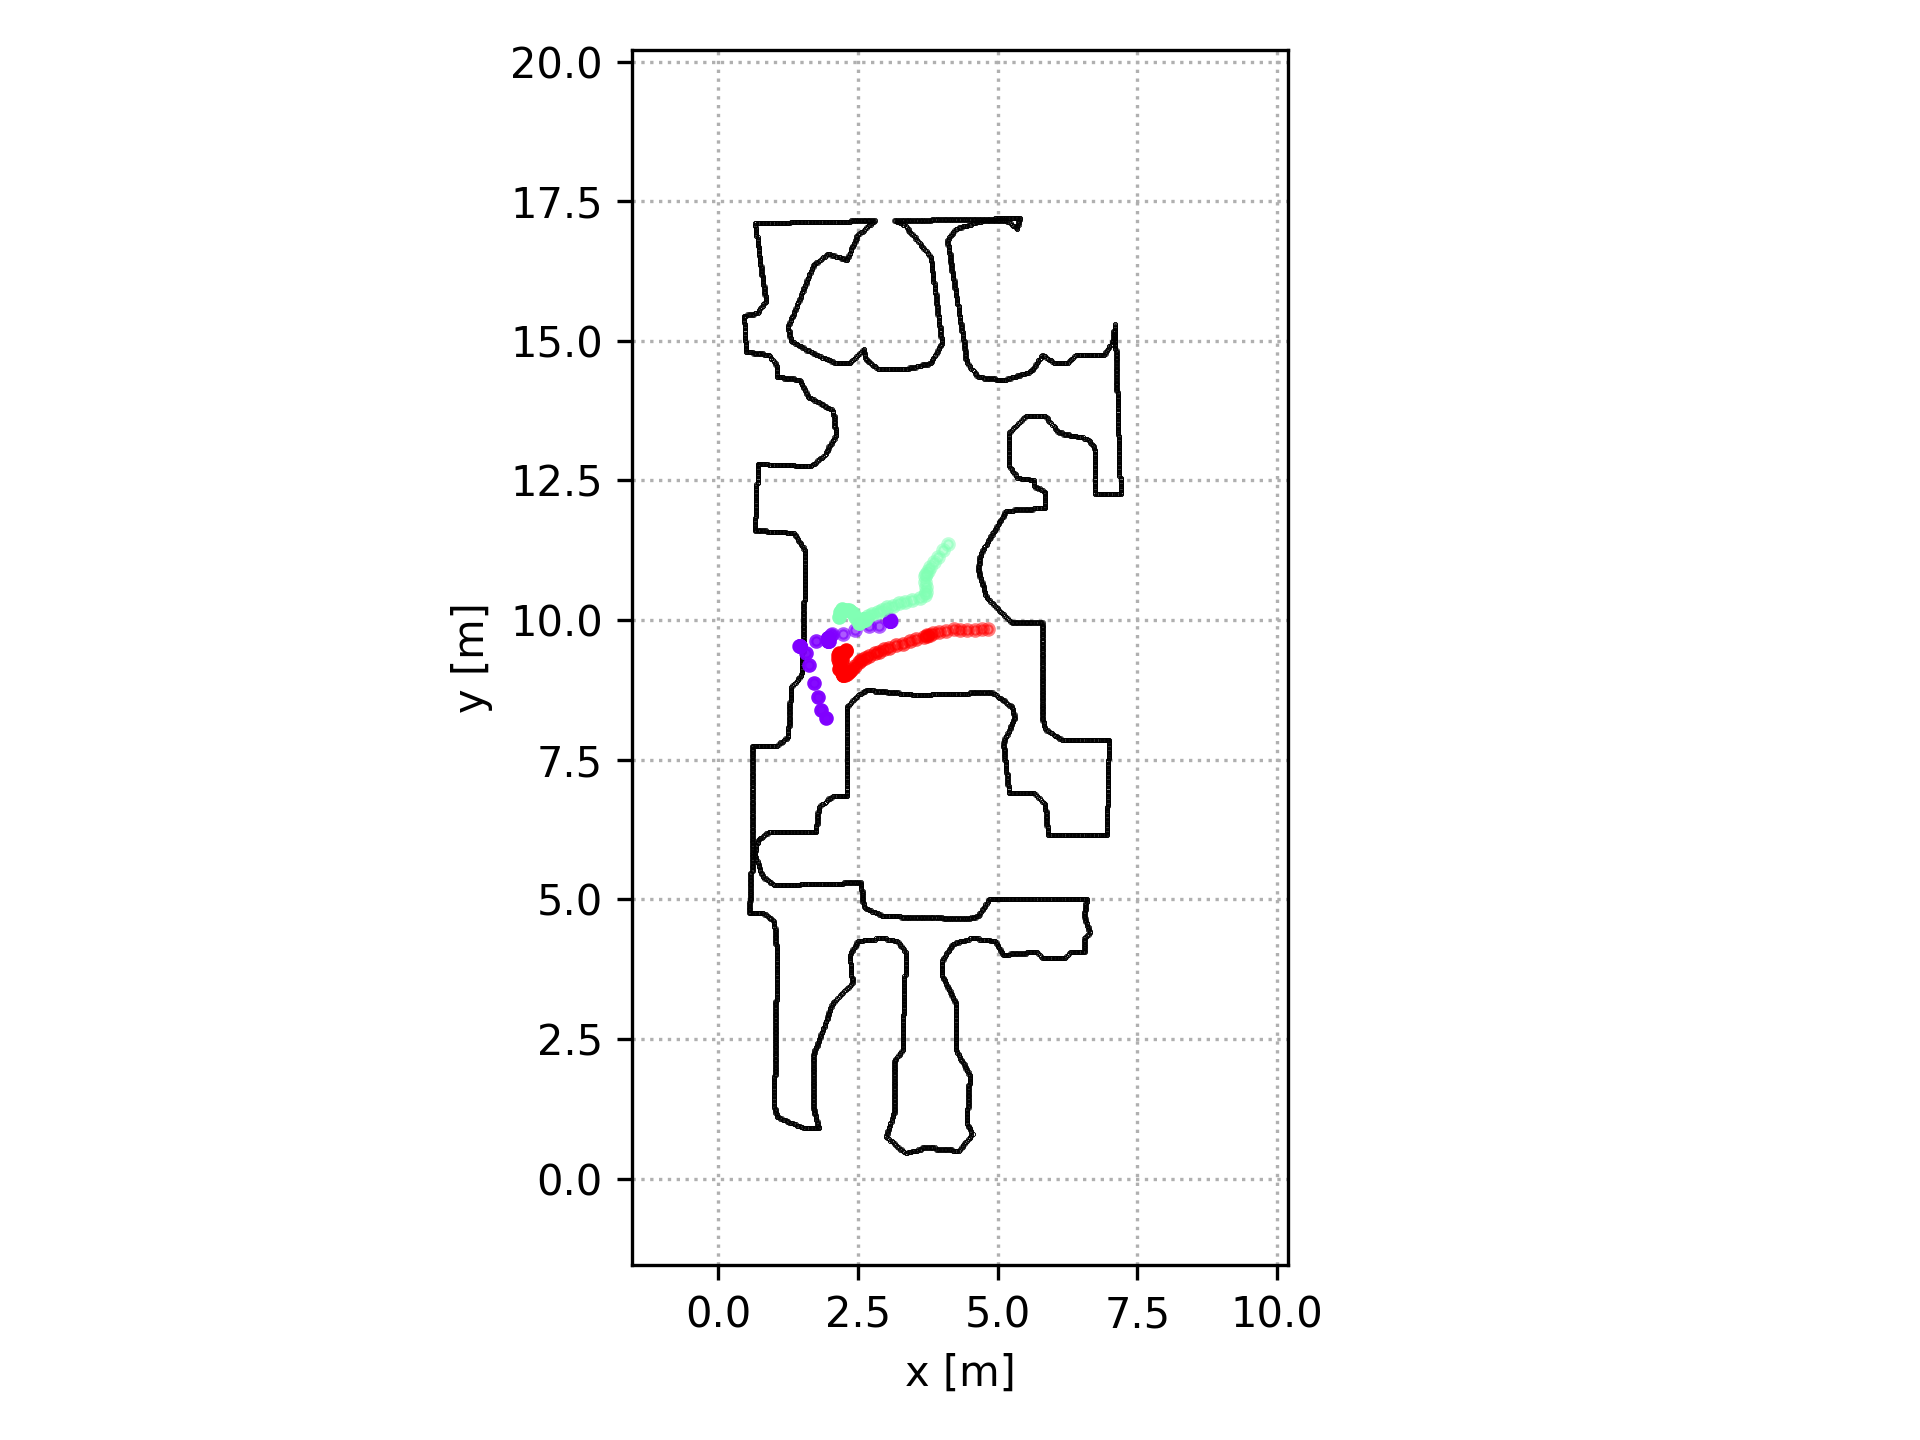
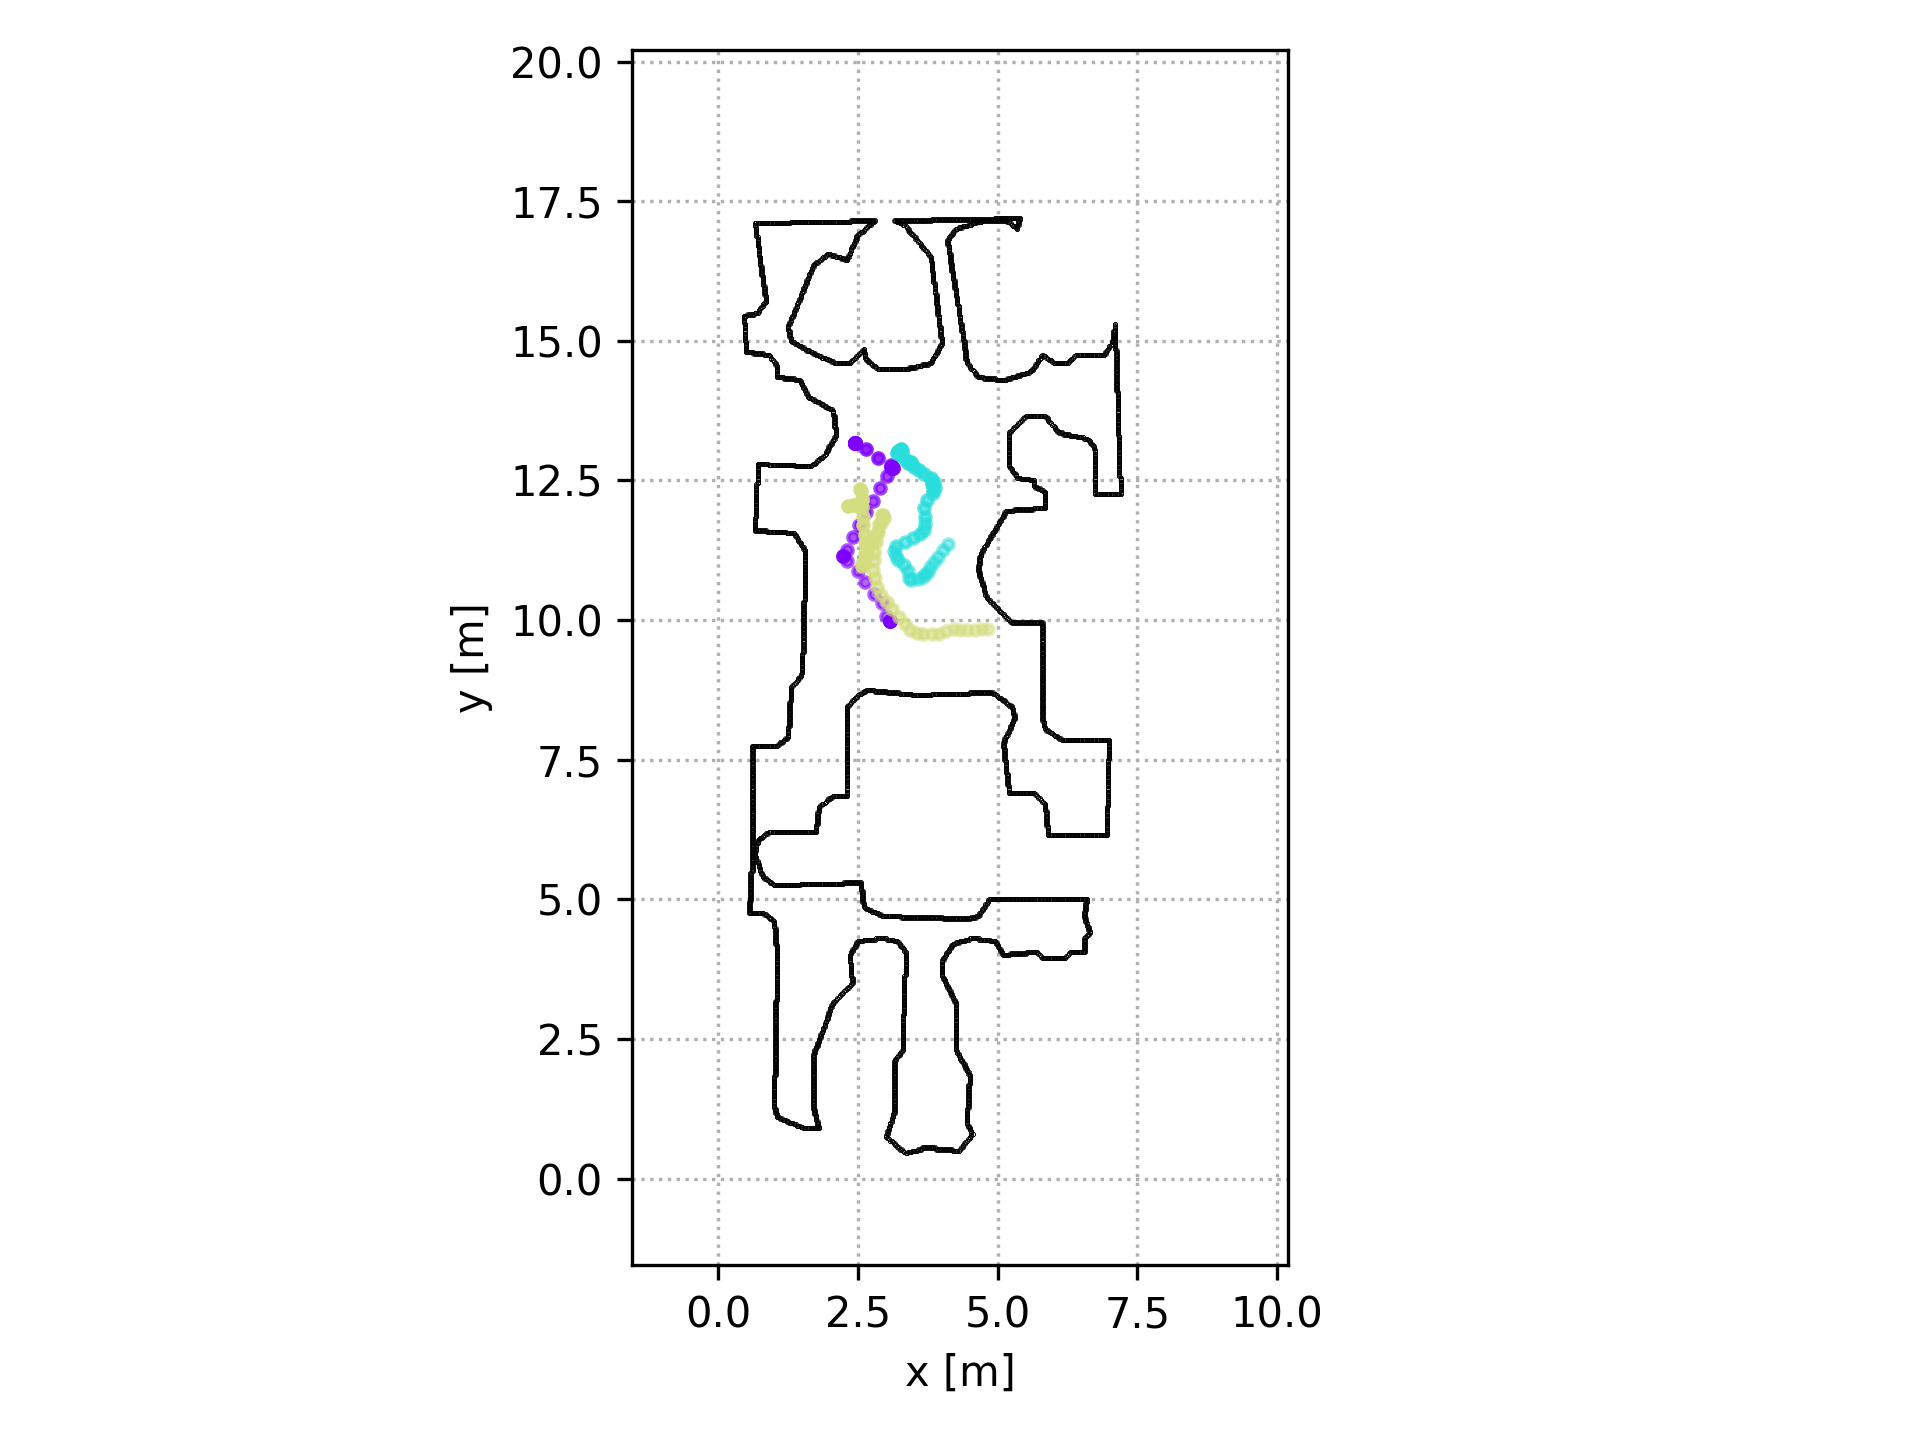
Extra human faces the ground smh

Changed region(s): [[0.4062, 0.2812, 0.5, 0.5]]

diff --git a/scripts/all_humans.py b/scripts/all_humans.py
@@ -54,7 +54,7 @@ AGENT_GOAL_POS_2d = [800,500]
 AGENT_START_POS_2d = [800,100]
 FOLLOWER_OFFSET = [1.5,-1.0,0.0]
 AGENTS_SPEED = 0.5
-USE_RVO = False
+USE_RVO = True
 MPP = 0.001
 def convert_points_to_topdown(pathfinder, points, meters_per_pixel = 0.025):
     points_topdown = []
@@ -332,9 +332,10 @@ class sim_env(threading.Thread):
         robot_pos_in_2d = to_grid(self.env._sim.pathfinder, self.env._sim.robot.base_pos, self.grid_dimensions)
         print(robot_pos_in_2d)
         ### Add human objects and groups here! 
-
+        ### N has the total number of extra humans, besides the robot and the two followers
         self.N = 1
-        self.groups = [[0,1,2]]
+
+        self.groups = [[0,1,2], [1]]
 
 
         ##### Initiating objects for other humans #####
@@ -346,16 +347,14 @@ class sim_env(threading.Thread):
         humans_initial_pos_3d = []
         humans_goal_pos_3d = []
         humans_initial_velocity = []
-        self.final_goals_3d = np.zeros([1, 3])
-        self.goal_dist = np.zeros(self.N+2)
+        self.goal_dist = np.zeros(self.N+3)
 
 
         #### Initiating robot in the esfm state ####
         agent_pos = self.env.sim.robot.base_pos
         start_pos = [agent_pos[0], agent_pos[1], agent_pos[2]]
         ## Asume the agent goal is always the goal of the 0th agent
-        self.final_goals_3d[0,:] = np.array(from_grid(self.env._sim.pathfinder, AGENT_GOAL_POS_2d, self.grid_dimensions))
-        self.final_goals_3d[0,:] = np.array(from_grid(self.env._sim.pathfinder, AGENT_GOAL_POS_2d, self.grid_dimensions))
+        agent_goal_pos_3d = np.array(from_grid(self.env._sim.pathfinder, AGENT_GOAL_POS_2d, self.grid_dimensions))
         goal_distance = 0.5
         path = habitat_path.ShortestPath()
         path.requested_start = np.array(start_pos)
@@ -367,12 +366,12 @@ class sim_env(threading.Thread):
             if(not self.env._sim.pathfinder.find_path(path)):
                 continue
             if temp_goal_dist > goal_distance:
-                self.final_goals_3d[0,:] = goal
+                agent_goal_pos_3d = goal
                 goal_distance = temp_goal_dist
         if (goal_distance<10):
             print("chose another scene maybe!", goal_distance)
             embed()
-        path.requested_end = self.final_goals_3d[0,:]
+        path.requested_end = agent_goal_pos_3d
         
         if(not self.env._sim.pathfinder.find_path(path)):
             print("Watch this one Tribhi!!!!")
@@ -475,37 +474,63 @@ class sim_env(threading.Thread):
         current_initial_pos_2d = [pos*0.025 for pos in current_initial_pos_2d]
         self.initial_state.append(current_initial_pos_2d+agents_initial_velocity+initial_pos)
         self.goal_dist[2] = np.linalg.norm((np.array(self.initial_state[2][0:2])-np.array(self.initial_state[2][4:6])))
-        # computed_velocity = self.sfm.get_velocity(np.array(self.initial_state), groups = self.groups, filename = "leader_follower_initial", save_anim = True)
-        # computed_velocity = self.sfm.get_velocity(np.array(self.initial_state), groups = self.groups, filename = "leader_follower_initial")
-        # human_state = self.follower.rigid_state
-        # next_vel_control = mn.Vector3(computed_velocity[1,0], computed_velocity[1,1], 0.0)
-        # diff_angle = quat_from_two_vectors(mn.Vector3(1,0,0), next_vel_control)
-        # diff_list = [diff_angle.x, diff_angle.y, diff_angle.z, diff_angle.w]
-        # angle= tf.transformations.euler_from_quaternion(diff_list)
-        # orientation_x = 90  # @param {type:"slider", min:-180, max:180, step:1}
-        # orientation_y = (np.pi/2-0.97)*180/np.pi+angle[2]*180/np.pi#+angle_diff[1]*180/np.pi# @param {type:"slider", min:-180, max:180, step:1}
-        # orientation_z = 180  # @param {type:"slider", min:-180, max:180, step:1}@param {type:"slider", min:-180, max:180, step:1}
-        # rotation_x = mn.Quaternion.rotation(mn.Deg(orientation_x), mn.Vector3(1.0, 0, 0))
-        # rotation_y = mn.Quaternion.rotation(mn.Deg(orientation_y), mn.Vector3(0.0, 1.0, 0))
-        # rotation_z = mn.Quaternion.rotation(mn.Deg(orientation_z), mn.Vector3(0.0, 0, 1.0))
-        # object_orientation2 = rotation_z * rotation_y * rotation_x
-        # if(not np.isnan(angle).any()):
-        #     set_object_state_from_agent(self.env._sim, self.follower, offset= human_state.translation - agent_state.position, orientation = object_orientation2)
-        #     self.follower_velocity_control.linear_velocity = [computed_velocity[1,0], 0.0,  computed_velocity[1,1]]
-        # else:
-        #     self.follower_velocity_control.linear_velocity = [0.0,0.0,0.0]
-        #     self.follower_velocity_control.angular_velocity = [0.0,0.0,0.0]
-        # self.goal_dist[1] = np.linalg.norm((np.array(self.initial_state[1][0:2])-np.array(self.initial_state[1][4:6])))
-        # a = self.env._sim.robot.base_transformation
-        # b = a.transform_point([0.5,0.0,0.0])
-        # d = a.transform_point([0.0,0.0,0.0])
-        # c = list(to_grid(self.env._sim.pathfinder, [b[0],b[1],b[2]], self.grid_dimensions))
-        # e = list(to_grid(self.env._sim.pathfinder, [d[0],d[1],d[2]], self.grid_dimensions))
-        # norm = np.sqrt((c[0]-e[0])**2+(c[1]-e[1])**2)
-        # norm_fol = np.sqrt(computed_velocity[1,0]**2 + computed_velocity[1,1]**2)
-        # vel = [0.0,0.0]
-        # self.initial_state[0][2:4] = vel
-        # self.initial_state[1][2:4] = [computed_velocity[1,0], computed_velocity[1,1]]
+
+        #### Add the rest of the people iwth random goal assigned ####
+        self.human_template_ids = []
+        self.objs = []
+        self.vel_control_objs = []
+        for k in range(self.N):
+            human_template_id = obj_template_mgr.load_configs('./scripts/humantwo')[0]
+            self.human_template_ids.append(human_template_id)
+            obj = rigid_obj_mgr.add_object_by_template_id(human_template_id)
+            # self.objs.append(obj)
+            
+            obj_template_handle = './scripts/humantwo.object_config.json'
+            obj_template = obj_template_mgr.get_template_by_handle(obj_template_handle)
+            print(obj_template)
+            file_obj = rigid_obj_mgr.add_object_by_template_handle(obj_template_handle) 
+            print(file_obj)
+            file_obj.motion_type = habitat_sim.physics.MotionType.KINEMATIC
+            self.objs.append(file_obj)
+            
+            #### Pick a random start location for this agent ####
+            start_pos_3d = self.env._sim.pathfinder.get_random_navigable_point_near(self.env._sim.robot.base_pos,5)
+            start_pos = from_grid(self.env._sim.pathfinder, start_pos_3d, self.grid_dimensions)
+            goal_pos_3d = self.env._sim.pathfinder.get_random_navigable_point_near(start_pos, 5)
+            path = habitat_path.ShortestPath()
+            path.requested_start = np.array(start_pos)
+            path.requested_end = goal_pos_3d
+            if(not self.env._sim.pathfinder.find_path(path)):
+                print("Watch this one Tribhi!!!!",i)
+                continue
+            humans_initial_pos_3d.append(path.points[0])
+            humans_goal_pos_3d.append(path.points[1])
+            human_initial_pos = list(to_grid(self.env._sim.pathfinder, humans_initial_pos_3d[-1], self.grid_dimensions))
+            goal_pos = list(to_grid(self.env._sim.pathfinder, humans_goal_pos_3d[-1], self.grid_dimensions))
+            self.initial_state.append(human_initial_pos+agents_initial_velocity+goal_pos)
+            agent_state = self.env.sim.get_agent_state(0)
+            offset = humans_initial_pos_3d[k]-agent_state.position
+            offset[1] += 1.0
+            orientation_x = 90   # @param {type:"slider", min:-180, max:180, step:1}
+            orientation_y = (np.pi/2-0.97)*180/np.pi  # @param {type:"slider", min:-180, max:180, step:1}
+            orientation_z = 180  # @param {type:"slider", min:-180, max:180, step:1}
+            rotation_x = mn.Quaternion.rotation(mn.Deg(orientation_x), mn.Vector3(1.0, 0, 0))
+            rotation_y = mn.Quaternion.rotation(mn.Deg(orientation_y), mn.Vector3(0.0, 1.0, 0))
+            rotation_z = mn.Quaternion.rotation(mn.Deg(orientation_z), mn.Vector3(0.0, 0, 1.0))
+            object_orientation = rotation_z * rotation_y * rotation_x
+            set_object_state_from_agent(self.env._sim, file_obj, offset=offset, orientation = object_orientation)
+            vel_control_obj = file_obj.velocity_control
+            vel_control_obj.controlling_lin_vel = True
+            vel_control_obj.controlling_ang_vel = True
+            vel_control_obj.ang_vel_is_local = False
+            vel_control_obj.lin_vel_is_local = False
+            self.vel_control_objs.append(vel_control_obj)
+            # linear_vel_in_map_frame = np.array([0.1,0.0,0.0])
+            # angular_velocity_in_map_frame = np.array([0.0,0.0,0.0])
+            
+            self.vel_control_objs[k].linear_velocity = np.array([0.0,0.0,0.0])
+            self.vel_control_objs[k].angular_velocity = np.array([0.0,0.0,0.0])
+            self.goal_dist[k+3] = np.linalg.norm((np.array(self.initial_state[k+3][0:2])-np.array(self.initial_state[k+3][4:6])))
         
         if USE_RVO:
             self.sfm = ped_rvo(self, map_path = "./maps/resolution_"+scene+"_0.025.pgm", resolution = 0.025)
@@ -633,24 +658,33 @@ class sim_env(threading.Thread):
             computed_velocity[1,:] = [computed_velocity[1,0], computed_velocity[1,1]]
         # print(computed_velocity, self.follower_velocity_control.linear_velocity)
         self.update_counter+=1
-        # print(" The robot heading is ", self.env._sim.robot.base_rot)
-        # print("The comuted velocity angle is ", np.arctan2(computed_velocity[0,1], computed_velocity[0,0]))
-        
-        
-        # a = self.env._sim.robot.base_transformation
-        # b = a.transform_point([0.5,0.0,0.0])
-        # d = a.transform_point([0.0,0.0,0.0])
-        # c = np.array(to_grid(self.env._sim.pathfinder, [b[0],b[1],b[2]], self.grid_dimensions))
-        # e = np.array(to_grid(self.env._sim.pathfinder, [d[0],d[1],d[2]], self.grid_dimensions))
-        # norm_fol = np.sqrt(computed_velocity[1,0]**2 + computed_velocity[1,1]**2)
-        # # if(ang_vel!=0.0):
-        # #     vel = (c-e)*(AGENTS_SPEED/np.linalg.norm(c-e)*np.ones([1,2]))[0]
-        # # else:
-        # #     vel = (c-e)*(lin_vel/np.linalg.norm(c-e)*np.ones([1,2]))[0]
-        # vel = (c-e)*(AGENTS_SPEED/np.linalg.norm(c-e)*np.ones([1,2]))[0]
-        # self.initial_state[0][2:4] = list(vel)
         self.initial_state[1][2:4] = [computed_velocity[1,0], computed_velocity[1,1]]
         self.initial_state[2][2:4] = [computed_velocity[2,0], computed_velocity[2,1]]
+
+        for k in range(self.N):
+            human_state = self.objs[k].rigid_state
+            next_vel_control = mn.Vector3(computed_velocity[k+3,0], computed_velocity[k+3,1], 0.0)
+            diff_angle = quat_from_two_vectors(mn.Vector3(1,0,0), next_vel_control)
+            diff_list = [diff_angle.x, diff_angle.y, diff_angle.z, diff_angle.w]
+            angle= tf.transformations.euler_from_quaternion(diff_list)
+            orientation_x = 90  # @param {type:"slider", min:-180, max:180, step:1}
+            orientation_y = (np.pi/2-0.97)*180/np.pi+angle[2]*180/np.pi#+angle_diff[1]*180/np.pi# @param {type:"slider", min:-180, max:180, step:1}
+            orientation_z = 180  # @param {type:"slider", min:-180, max:180, step:1}@param {type:"slider", min:-180, max:180, step:1}
+            rotation_x = mn.Quaternion.rotation(mn.Deg(orientation_x), mn.Vector3(1.0, 0, 0))
+            rotation_y = mn.Quaternion.rotation(mn.Deg(orientation_y), mn.Vector3(0.0, 1.0, 0))
+            rotation_z = mn.Quaternion.rotation(mn.Deg(orientation_z), mn.Vector3(0.0, 0, 1.0))
+            object_orientation2 = rotation_z * rotation_y * rotation_x
+            agent_state = self.env._sim.get_agent_state(0)
+            if(not np.isnan(angle).any()):
+                set_object_state_from_agent(self.env._sim, self.objs[k], offset= human_state.translation - agent_state.position, orientation = object_orientation2)
+                self.vel_control_objs[k].linear_velocity = [computed_velocity[k+3,0], 0.0,  computed_velocity[k+3,1]]
+                print("setting linear velocity for extra agent")
+            else:
+                self.leader_velocity_control.linear_velocity = [0.0,0.0,0.0]
+                self.leader_velocity_control.angular_velocity = [0.0,0.0,0.0]
+            # print(computed_velocity, self.follower_velocity_control.linear_velocity)
+            self.update_counter+=1
+            self.initial_state[k+3][2:4] = [computed_velocity[k+3,0], computed_velocity[k+3,1]]
         # map_to_base_link({'x': initial_pos[0], 'y': initial_pos[1], 'theta': mn.Rad(np.arctan2(vel[1], vel[0]))},self)
 
         
@@ -691,18 +725,7 @@ class sim_env(threading.Thread):
 
             self._pub_rgb.publish(np.float32(rgb_with_res))
             self._pub_depth.publish(np.float32(depth_with_res))
-            #### Update leader state in ESFM 
-            # object_state = self.leader.rigid_state.translation
-            # current_initial_pos_2d = to_grid(self.env._sim.pathfinder, object_state, self.grid_dimensions)
-            # current_initial_pos_2d = [pos*0.025 for pos in current_initial_pos_2d]
-            # self.initial_state[1][0:2] = current_initial_pos_2d
-            # self.goal_dist[1] = np.linalg.norm((np.array(self.initial_state[1][0:2])-np.array(self.initial_state[1][4:6])))
-            # #### Update Follower state in ESFM
-            # object_state = self.follower.rigid_state.translation
-            # current_initial_pos_2d = to_grid(self.env._sim.pathfinder, object_state, self.grid_dimensions)
-            # current_initial_pos_2d = [pos*0.025 for pos in current_initial_pos_2d]
-            # self.initial_state[2][0:2] = current_initial_pos_2d
-            # self.goal_dist[2] = np.linalg.norm((np.array(self.initial_state[2][0:2])-np.array(self.initial_state[2][4:6])))
+            
             #### Update agent velocity 
             a = self.env._sim.robot.base_transformation
             b = a.transform_point([0.5,0.0,0.0])
@@ -714,7 +737,6 @@ class sim_env(threading.Thread):
             else:
                 vel = (c-e)*(self.linear_velocity[2]/np.linalg.norm(c-e)*np.ones([1,2]))[0]
             # vel = (c-e)*(self.linear_velocity[2]/np.linalg.norm(c-e)*np.ones([1,2]))[0]
-            # self.initial_state[0][2:4] = list(vel)
             #### Publish pose and transform
             agent_pos = self.env.sim.robot.base_pos
             start_pos = [agent_pos[0], agent_pos[1], agent_pos[2]]
@@ -724,26 +746,13 @@ class sim_env(threading.Thread):
             # self.initial_state[0][2:4] = vel
             self.goal_dist[0] = np.linalg.norm((np.array(self.initial_state[0][0:2])-np.array(self.initial_state[0][4:6])))
             map_to_base_link({'x': initial_pos[0], 'y': initial_pos[1], 'theta': mn.Rad(np.arctan2(vel[1], vel[0]))},self)
-            
-            # print(agent_state)
-            # self.vel_control_obj_2.linear_velocity = np.array([0.0,0.0,0.0])
-            # self.vel_control_obj_2.angular_velocity = np.array([0.0,0.0,0.0])
-            # orientation_x = 0  # @param {type:"slider", min:-180, max:180, step:1}
-            # orientation_y = 90  # @param {type:"slider", min:-180, max:180, step:1}
-            # orientation_z = 90  # @param {type:"slider", min:-180, max:180, step:1}
-            # rotation_x = mn.Quaternion.rotation(mn.Deg(orientation_x), mn.Vector3(1.0, 0, 0))
-            # rotation_y = mn.Quaternion.rotation(mn.Deg(orientation_y), mn.Vector3(0, 1.0, 0))
-            # rotation_z = mn.Quaternion.rotation(mn.Deg(orientation_z), mn.Vector3(0, 0, 1.0))
-            # object_orientation2 = rotation_z * rotation_y * rotation_x
-            # offset2= np.array([1,1,-0.5])
-            # set_object_state_from_agent(self.env._sim, self.file_obj2, offset=offset2, orientation = object_orientation2)
             lock.release()
             self._r_sensor.sleep()
             
 
     def update_orientation(self):
-        if self.received_vel:
-            self.received_vel = False
+        # if self.received_vel:
+            # self.received_vel = False
             # self.vel_control_objs[0].linear_velocity = self.linear_velocity
             # self.vel_control_objs[0].angular_velocity = self.angular_velocity
             # self.vel_control.linear_velocity = self.linear_velocity
@@ -854,7 +863,7 @@ def callback(vel, my_env):
     #### Follower control #####
     # my_env.linear_velocity = np.array([-vel.linear.x*np.sin(0.97), -vel.linear.x*np.cos(0.97),0.0])
     # my_env.angular_velocity = np.array([0, 0, vel.angular.z])
-    my_env.received_vel = True
+    # my_env.received_vel = True
     # my_env.update_orientation()
 
 def main():

diff --git a/scripts/get_trajectory.py b/scripts/get_trajectory.py
@@ -40,7 +40,7 @@ class social_force():
         self.max_counter = int(10/my_env.human_time_step)
         self.update_number = 0
         self.dt = my_env.human_time_step
-        # self.s.peds.step_width = 0.4*my_env.human_time_step
+        self.s.peds.step_width = 0.5*my_env.human_time_step
 
         
     def load_obstacles(self, env):
